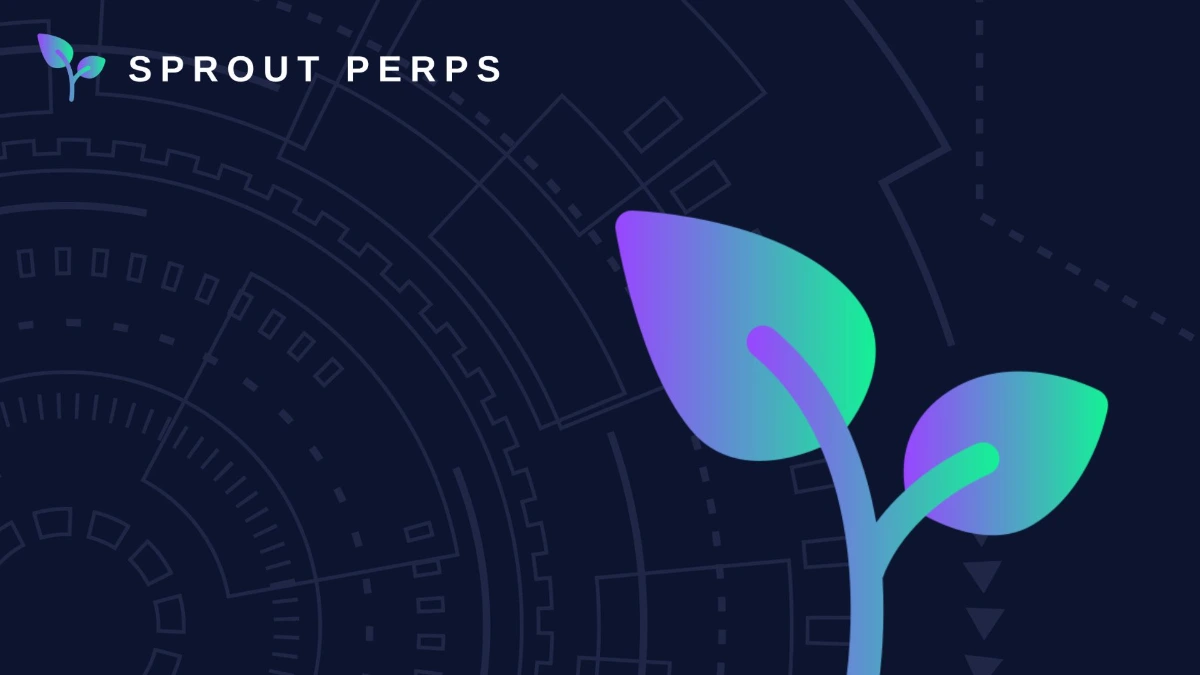
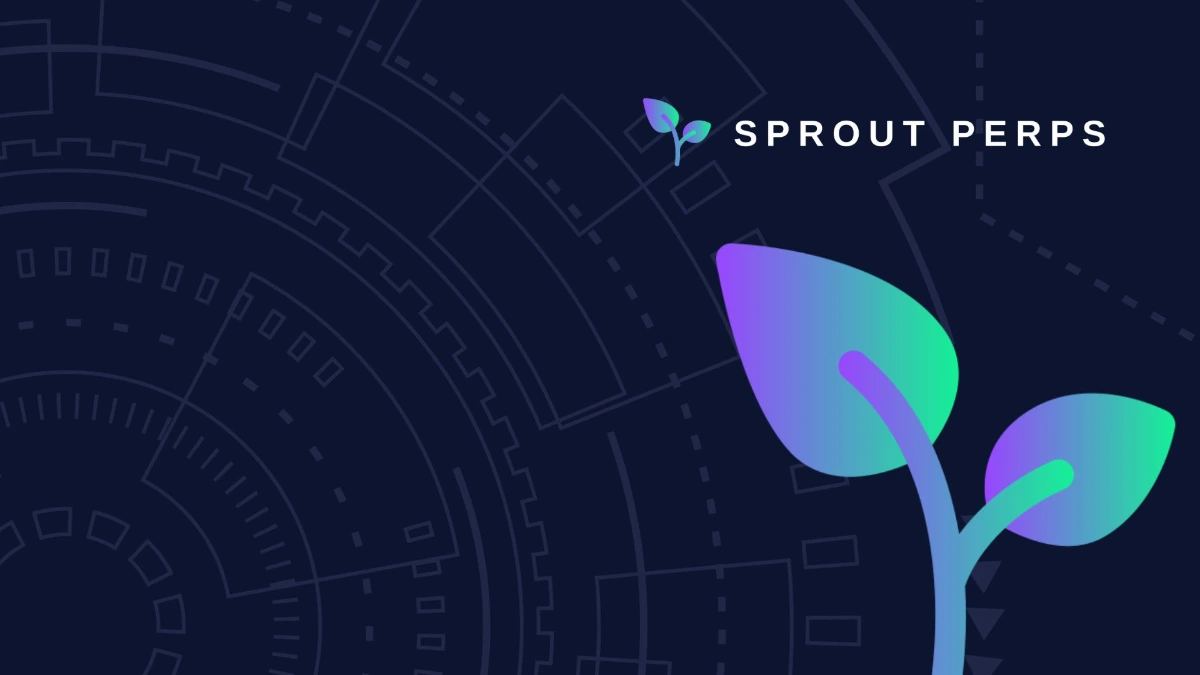
Update DEX configuration and branding

Changed region(s): [[0.4933, 0.3111, 0.9867, 1.0], [0.0308, 0.0311, 0.4317, 0.1556], [0.5242, 0.1244, 0.925, 0.2489]]

diff --git a/public/config.js b/public/config.js
@@ -35,7 +35,7 @@ window.__RUNTIME_CONFIG__ = {
   "VITE_SEO_KEYWORDS": "solana dex, solana perps, leverage trading, perpetual swaps, phantom wallet, crypto derivatives, solana trading, trade solana perps",
   "VITE_AVAILABLE_LANGUAGES": "en",
   "VITE_USE_CUSTOM_PNL_POSTERS": "true",
-  "VITE_CUSTOM_PNL_POSTER_COUNT": "2",
+  "VITE_CUSTOM_PNL_POSTER_COUNT": "3",
   "VITE_TRADING_VIEW_COLOR_CONFIG": "",
   "VITE_ANALYTICS_SCRIPT": "",
   "VITE_SYMBOL_LIST": "PERP_1000BONK_USDC,PERP_1000PEPE_USDC,PERP_1000SHIB_USDC,PERP_AAOI_USDC_mythos,PERP_AAVE_USDC,PERP_ADA_USDC,PERP_ALLO_USDC_mythos,PERP_APT_USDC,PERP_ARB_USDC,PERP_ASTER_USDC,PERP_AVAX_USDC,PERP_BASED_USDC,PERP_BCH_USDC,PERP_BERA_USDC,PERP_BIO_USDC,PERP_BNB_USDC,PERP_BTC_USDC,PERP_BZ_USDC,PERP_CAKE_USDC,PERP_CAP_USDC_mythos,PERP_CBRS_USDC_mythos,PERP_CL_USDC,PERP_COIN_USDC_mythos,PERP_CRCL_USDC_mythos,PERP_CRV_USDC,PERP_DASH_USDC,PERP_DEXE_USDC_mythos,PERP_DODOX_USDC_mythos,PERP_DOGE_USDC,PERP_DOT_USDC,PERP_EDGE_USDC,PERP_EIGEN_USDC_mythos,PERP_ENA_USDC,PERP_ETHFI_USDC,PERP_ETH_USDC,PERP_EURUSD_USDC,PERP_EWY_USDC_mythos,PERP_FARTCOIN_USDC,PERP_FASTX_USDC_fastx,PERP_FET_USDC,PERP_GOAT_USDC,PERP_GOOGL_USDC,PERP_GRAM_USDC_mythos,PERP_HBAR_USDC,PERP_HOME_USDC_mythos,PERP_HOOD_USDC_mythos,PERP_HYPE_USDC,PERP_ICP_USDC,PERP_INJ_USDC,PERP_INTC_USDC_mythos,PERP_JTO_USDC_mythos,PERP_JUP_USDC,PERP_LINK_USDC,PERP_LITE_USDC_mythos,PERP_LIT_USDC,PERP_LTC_USDC,PERP_MEGA_USDC,PERP_MERL_USDC,PERP_MON_USDC,PERP_MORPHO_USDC,PERP_MRVL_USDC_mythos,PERP_MSTR_USDC_mythos,PERP_M_USDC,PERP_NAS100_USDC,PERP_NATGAS_USDC_arthur,PERP_NBIS_USDC_mythos,PERP_NEAR_USDC,PERP_NVDA_USDC,PERP_ONDO_USDC,PERP_OPN_USDC_mythos,PERP_OP_USDC,PERP_ORDER_USDC,PERP_PENDLE_USDC,PERP_PENGU_USDC,PERP_POL_USDC,PERP_PUMP_USDC,PERP_PYTH_USDC_mythos,PERP_QQQ_USDC_mythos,PERP_RAY_USDC,PERP_RE_USDC_mythos,PERP_SAMSUNG_USDC_mythos,PERP_SEI_USDC,PERP_SKHYNIX_USDC_mythos,PERP_SKHY_USDC_mythos,PERP_SKR_USDC,PERP_SNDK_USDC_mythos,PERP_SOL_USDC,PERP_SOXL_USDC_mythos,PERP_SPCX_USDC_mythos,PERP_SPX500_USDC,PERP_SPX_USDC,PERP_SUI_USDC,PERP_SYN_USDC_mythos,PERP_S_USDC,PERP_TAO_USDC,PERP_TIA_USDC,PERP_TRUMP_USDC,PERP_TRX_USDC,PERP_TSLA_USDC,PERP_UNI_USDC,PERP_USELESS_USDC,PERP_VIRTUAL_USDC,PERP_WDC_USDC_mythos,PERP_WIF_USDC,PERP_WLD_USDC,PERP_WLFI_USDC,PERP_WOO_USDC,PERP_XAG_USDC,PERP_XAU_USDC,PERP_XMR_USDC,PERP_XPL_USDC,PERP_XRP_USDC,PERP_ZEC_USDC,PERP_ZRO_USDC",